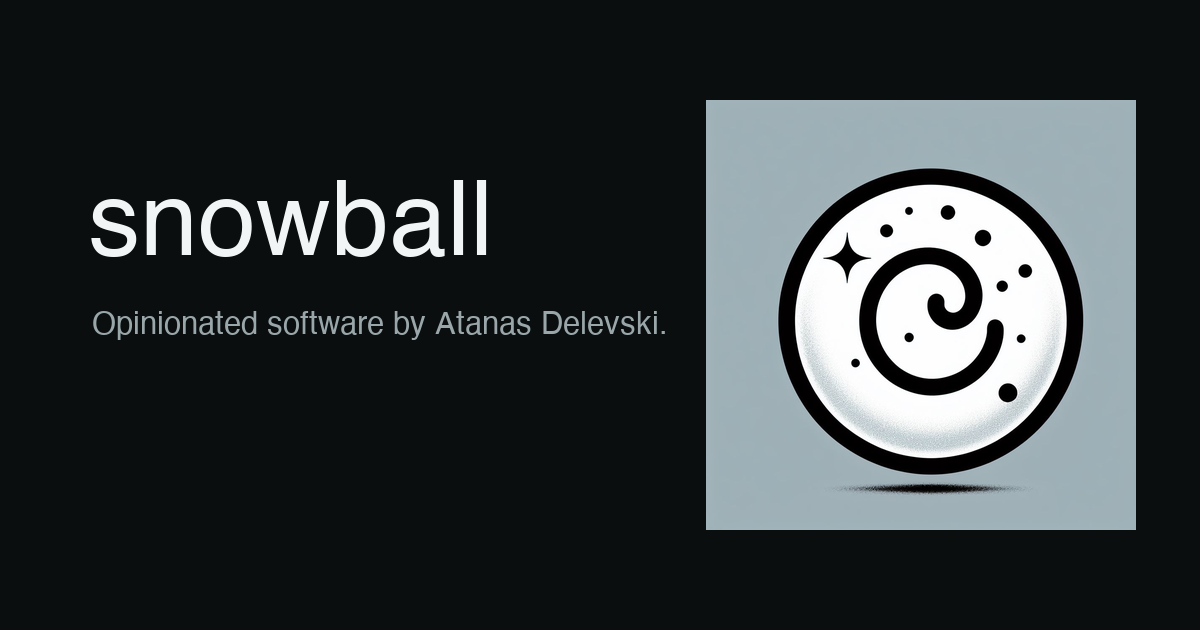
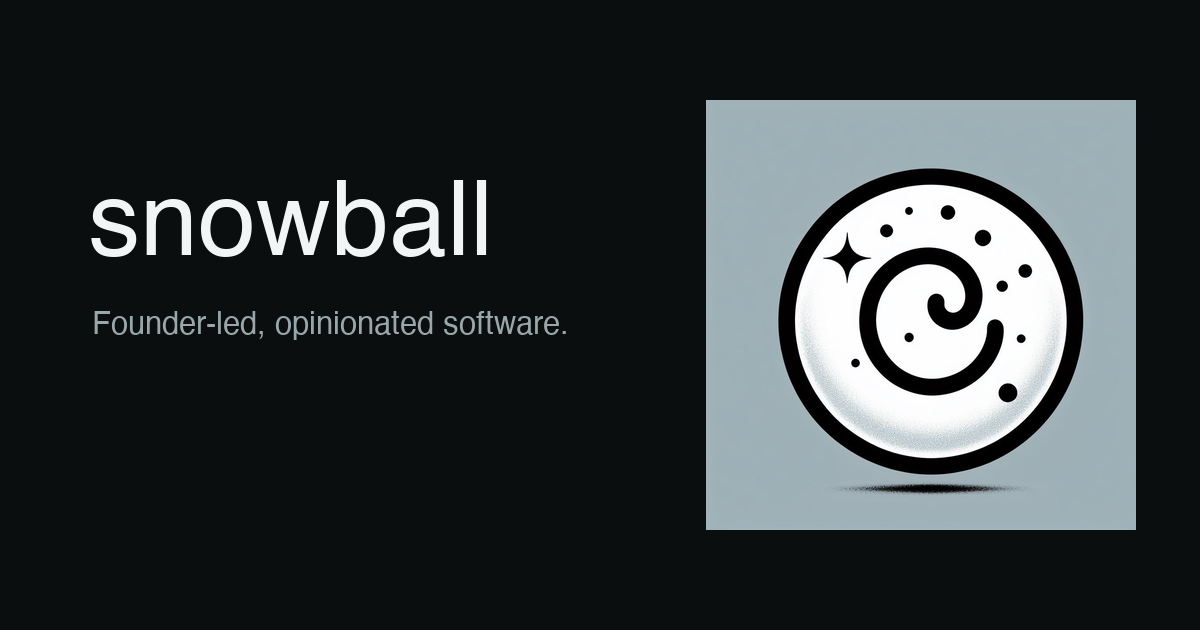
Refine snowball project presentation

Changed region(s): [[0.0617, 0.4825, 0.555, 0.5429]]

diff --git a/src/styles/global.css b/src/styles/global.css
@@ -151,16 +151,24 @@ main {
 .project-list {
   display: grid;
   grid-template-columns: repeat(2, minmax(0, 1fr));
-  border-top: 1px solid var(--line);
+  gap: clamp(0.9rem, 2vw, 1.5rem);
+}
+
+.project-groups {
+  display: grid;
+  gap: clamp(3.5rem, 7vw, 6rem);
+}
+
+.project-group__title {
+  margin-bottom: 1rem;
+  color: var(--muted);
+  font-size: 0.82rem;
+  font-weight: 600;
+  letter-spacing: 0.01em;
 }
 
 .project-card {
   min-width: 0;
-  border-bottom: 1px solid var(--line);
-}
-
-.project-card:nth-child(odd) {
-  border-right: 1px solid var(--line);
 }
 
 .project-card__link {
@@ -168,11 +176,17 @@ main {
   display: flex;
   min-height: clamp(15rem, 24vw, 20rem);
   padding: clamp(1.5rem, 3.5vw, 3rem);
+  border: 1px solid var(--line);
+  border-radius: 1.2rem;
   flex-direction: column;
   justify-content: space-between;
+  background: #101416;
   overflow: hidden;
   text-decoration: none;
-  transition: background-color 180ms ease;
+  transition:
+    background-color 180ms ease,
+    border-color 180ms ease,
+    transform 180ms ease;
 }
 
 .project-card__link::before {
@@ -189,7 +203,9 @@ main {
 }
 
 .project-card__link:hover {
+  border-color: #536269;
   background: var(--surface);
+  transform: translateY(-1px);
 }
 
 .project-card__link:hover::before {
@@ -344,11 +360,26 @@ main {
   color: var(--muted);
 }
 
-.article-list time,
-.prose time,
+.article-meta,
 .article-context {
   color: var(--muted);
   font-size: 0.85rem;
+}
+
+.article-meta {
+  display: flex;
+  flex-wrap: wrap;
+  gap: 0.45rem;
+  margin: 0;
+}
+
+.article-list .article-meta {
+  margin-top: 0.75rem;
+}
+
+.article-meta__authors::before {
+  margin-right: 0.45rem;
+  content: "·";
 }
 
 .article-context {
@@ -368,10 +399,6 @@ main {
 
   .project-list {
     grid-template-columns: 1fr;
-  }
-
-  .project-card:nth-child(odd) {
-    border-right: 0;
   }
 
   .project-card__link {

diff --git a/src/content.config.ts b/src/content.config.ts
@@ -4,12 +4,40 @@ import { z } from "astro/zod";
 
 const projects = defineCollection({
   loader: glob({ base: "./src/content/projects", pattern: "**/*.md" }),
-  schema: z.object({
-    title: z.string(),
-    summary: z.string(),
-    repository: z.url().optional(),
-    draft: z.boolean().default(false),
-  }),
+  schema: z
+    .object({
+      title: z.string(),
+      summary: z.string(),
+      category: z.enum(["dashboard", "developer"]).optional(),
+      liveUrl: z.url().optional(),
+      repository: z.url().optional(),
+      draft: z.boolean().default(false),
+    })
+    .superRefine((project, context) => {
+      if (
+        !project.draft &&
+        project.category === "dashboard" &&
+        !project.liveUrl
+      ) {
+        context.addIssue({
+          code: "custom",
+          message: "A dashboard requires a liveUrl.",
+          path: ["liveUrl"],
+        });
+      }
+
+      if (
+        !project.draft &&
+        project.category === "developer" &&
+        !project.repository
+      ) {
+        context.addIssue({
+          code: "custom",
+          message: "A developer tool requires a repository.",
+          path: ["repository"],
+        });
+      }
+    }),
 });
 
 const writing = defineCollection({
@@ -19,6 +47,7 @@ const writing = defineCollection({
     summary: z.string(),
     publishedDate: z.coerce.date(),
     updatedDate: z.coerce.date().optional(),
+    authors: z.array(z.string()).min(1),
     topics: z.array(z.string()).default([]),
     project: z.string().optional(),
     draft: z.boolean().default(false),

diff --git a/src/lib/projects.ts b/src/lib/projects.ts
@@ -1,0 +1,18 @@
+import type { CollectionEntry } from "astro:content";
+
+export const projectCategoryLabels = {
+  dashboard: "Dashboards",
+  developer: "Developer tools",
+} as const;
+
+export function projectHref(project: CollectionEntry<"projects">) {
+  if (project.data.category === "dashboard") {
+    return project.data.liveUrl!;
+  }
+
+  if (project.data.category === "developer") {
+    return project.data.repository!;
+  }
+
+  return `/projects/${project.id}/`;
+}

diff --git a/src/pages/rss.xml.js b/src/pages/rss.xml.js
@@ -9,7 +9,7 @@ export async function GET(context) {
     );
 
   return rss({
-    title: "snowball writing",
+    title: "snowball blog",
     description: "Technical notes from snowball projects.",
     site: context.site,
     items: articles.map((article) => ({

diff --git a/AGENTS.md b/AGENTS.md
@@ -3,6 +3,10 @@
 - Write the brand name as `snowball` in lowercase everywhere, including visible copy, metadata, repository documentation, and agent instructions.
 - Treat snowball as a founder-led collection of opinionated software, not a mission, movement, startup, or community-owned product direction. Do not call an individual project open source until it has both public source and an explicit open-source license.
 - Present every snowball project as a peer. Do not invent featured, flagship, legacy, or secondary tiers.
+- Credit software to snowball and identify Atanas Delevski only as its founder unless another role is necessary. snowball software uses Apache-2.0; do not claim a repository is licensed until its source license matches.
+- Classify projects only from an owner-approved source. Published dashboard items require and link to a live interface; published developer tools require and link to GitHub. Draft records may hold an approved category while awaiting that destination. Keep unclassified records neutral until their owning task supplies a decision.
+- Keep a future Finance dashboard separate from the independent finance repositories it presents; deep links do not make those repositories one package.
+- Treat Writing as snowball's blog. Store authors as a list so one or multiple contributors render without a different layout.
 - Keep the public surface project-first and exceptionally terse. Avoid promotional heroes, repeated copy, calls to action, ornamental navigation, and platform-like features.
 - Keep current implementation, active experiments, and future vision clearly separated in public claims.
 - Keep project entries focused on scope and boundaries; keep articles focused on one technical argument. Connect them with `project` frontmatter instead of repeating prose.

diff --git a/README.md b/README.md
@@ -26,7 +26,9 @@ npm run verify       # all of the above
 ## Content
 
 - Add a project record to `src/content/projects/` when its public summary is ready. Include `repository` only when the source is publicly accessible.
+- Set an owner-approved project `category` to `dashboard` with a `liveUrl`, or `developer` with a public `repository`. A draft may hold its approved category while waiting for that destination. Unclassified projects stay neutral until a decision arrives.
 - Add technical articles to `src/content/writing/` only when there is substantive material to publish.
+- List every article author in `authors`; the same field supports one or multiple contributors.
 - Keep working drafts outside this public repository; copy in only publication-ready writing.
 - Set an article's optional `project` field to a project ID to create title-only cross-links.
 - Keep the provisional, canonical public-good principles in `src/pages/principles.md`.

diff --git a/src/content/writing/choosing-a-center.md b/src/content/writing/choosing-a-center.md
@@ -2,6 +2,8 @@
 title: Choosing a Center Is Choosing an Objective
 summary: Road graphs, competing travel-time objectives, and near-optimal regions turn different ideas of fairness into different centers.
 publishedDate: 2026-08-26
+authors:
+  - Atanas Delevski
 topics:
   - Optimization
   - Geospatial computing

diff --git a/src/content/projects/optasy.md b/src/content/projects/optasy.md
@@ -1,6 +1,7 @@
 ---
 title: OPTASY
 summary: Explainable tools for fantasy-football research and draft decisions.
+category: developer
 repository: https://github.com/adelevski/optasy
 draft: false
 ---

diff --git a/src/content/projects/modo.md b/src/content/projects/modo.md
@@ -1,6 +1,7 @@
 ---
 title: MODO
 summary: Balanced geographic and road-network destinations for multiple origins.
+category: developer
 repository: https://github.com/adelevski/modo
 draft: false
 ---

diff --git a/src/content/projects/transitbro.md b/src/content/projects/transitbro.md
@@ -2,5 +2,5 @@
 title: Transitbro
 summary: A live map and run board for Chicago's CTA rail network.
 repository: https://github.com/adelevski/transitbro
-draft: false
+draft: true
 ---

diff --git a/src/content/writing/_template.md b/src/content/writing/_template.md
@@ -2,6 +2,8 @@
 title: Draft article template
 summary: Replace this summary before publishing.
 publishedDate: 2026-08-25
+authors:
+  - Atanas Delevski
 topics: []
 draft: true
 ---

diff --git a/src/content/projects/moneyprinter.md b/src/content/projects/moneyprinter.md
@@ -1,5 +1,6 @@
 ---
 title: Moneyprinter
 summary: Offline look-through exposure for overlapping direct and fund holdings.
-draft: false
+category: developer
+draft: true
 ---
